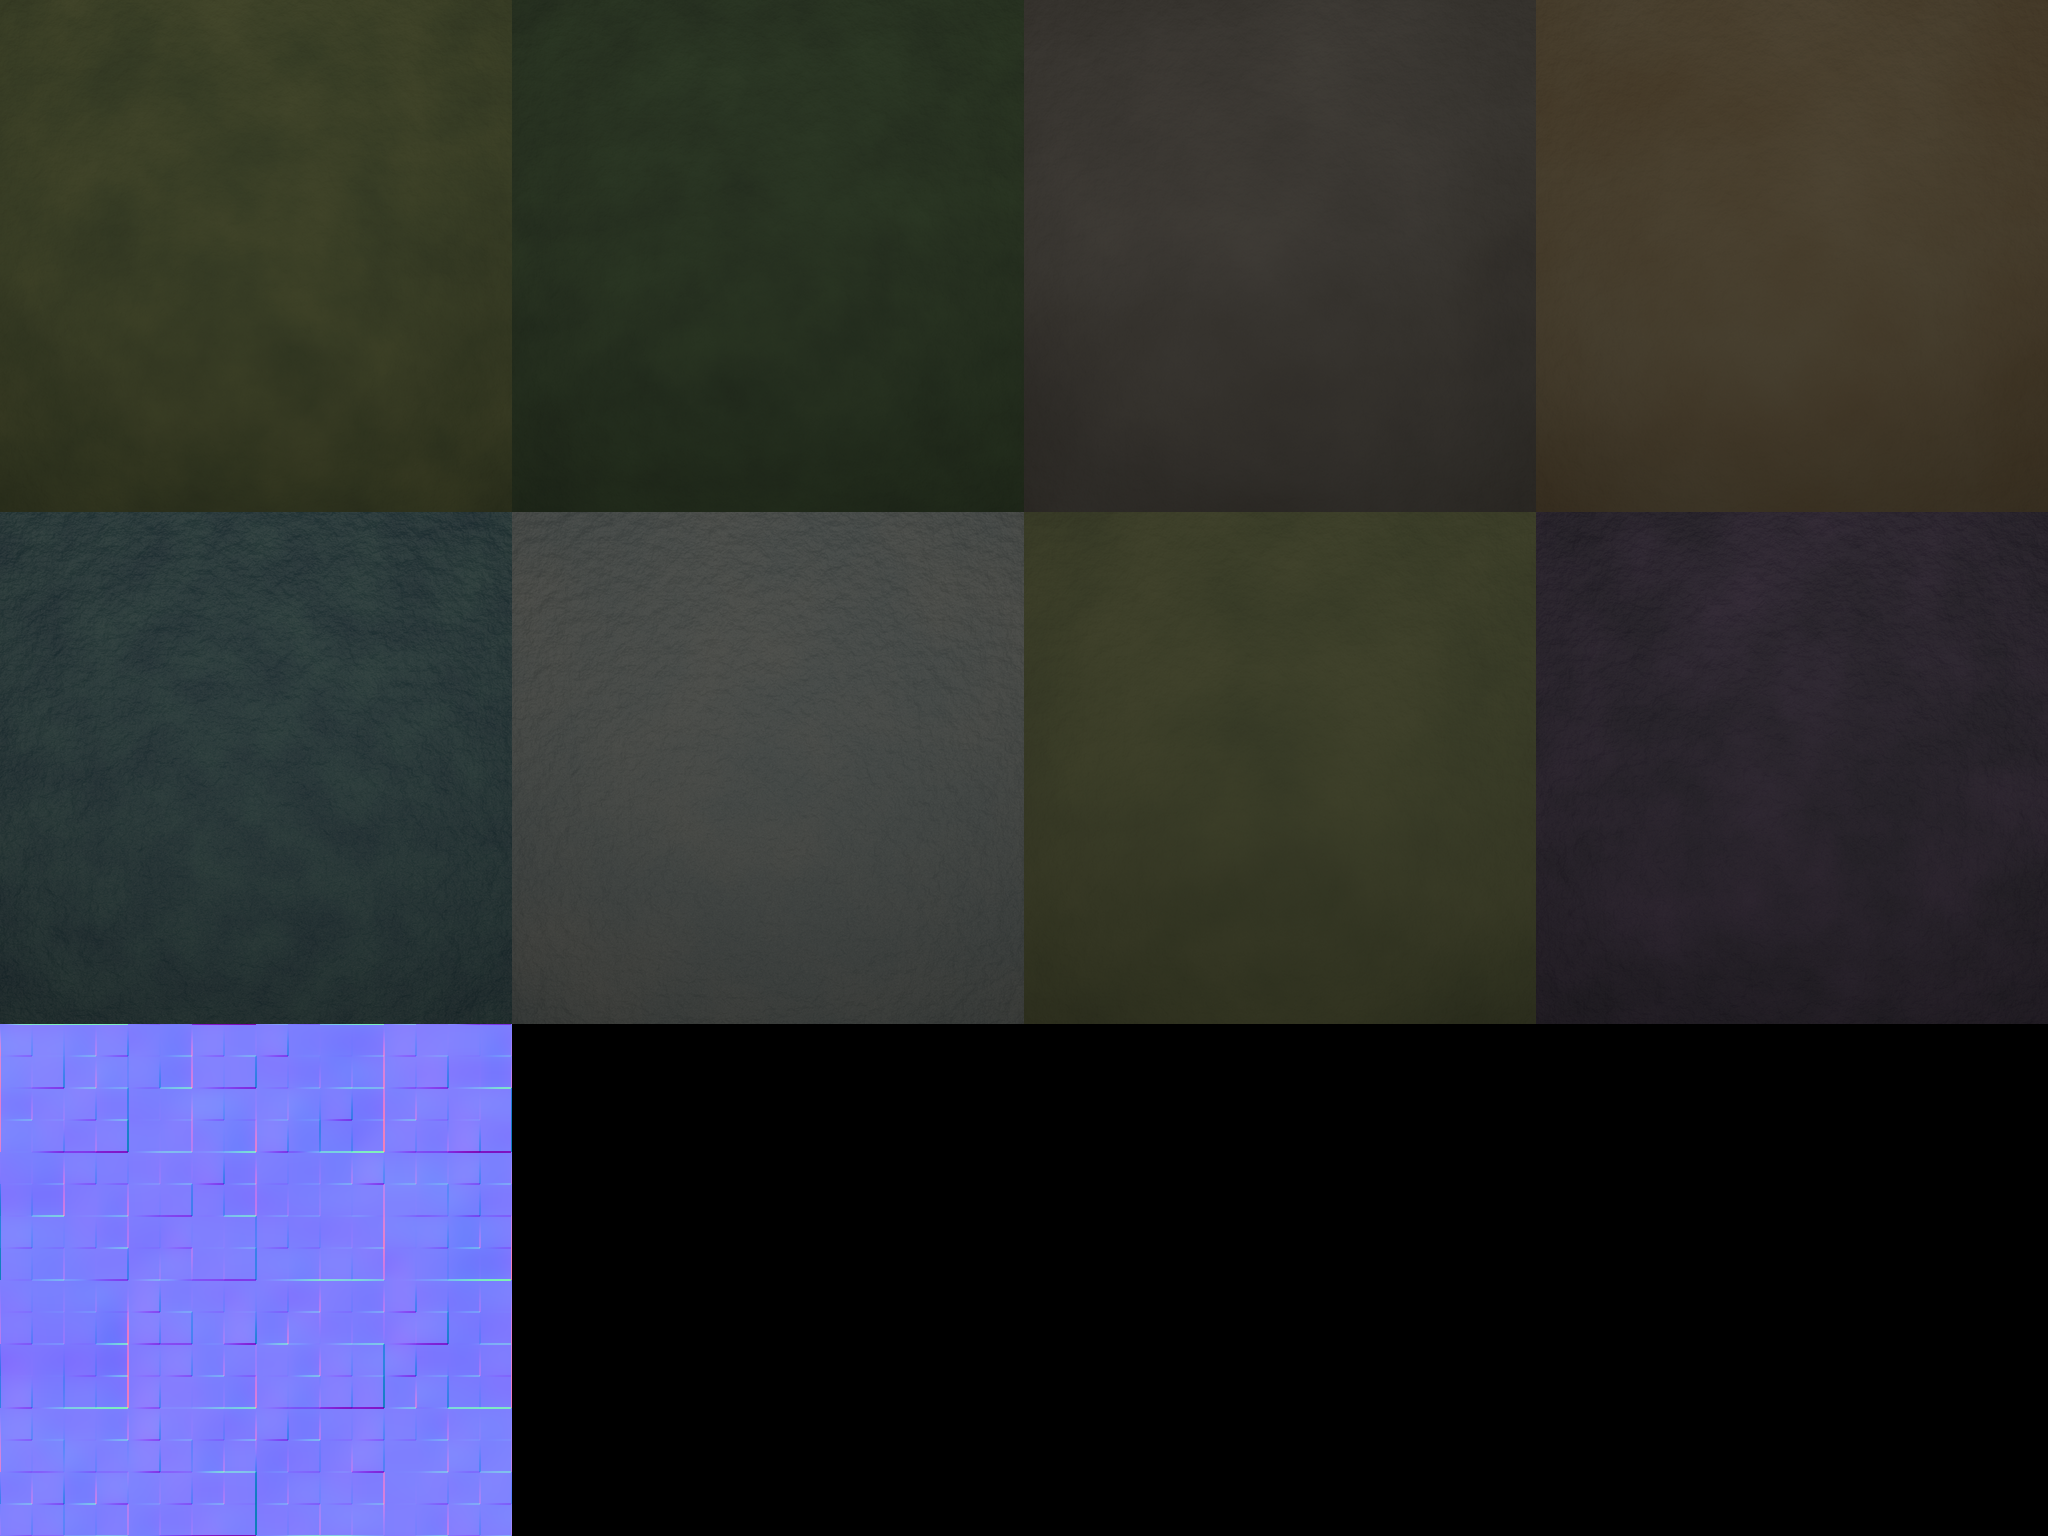
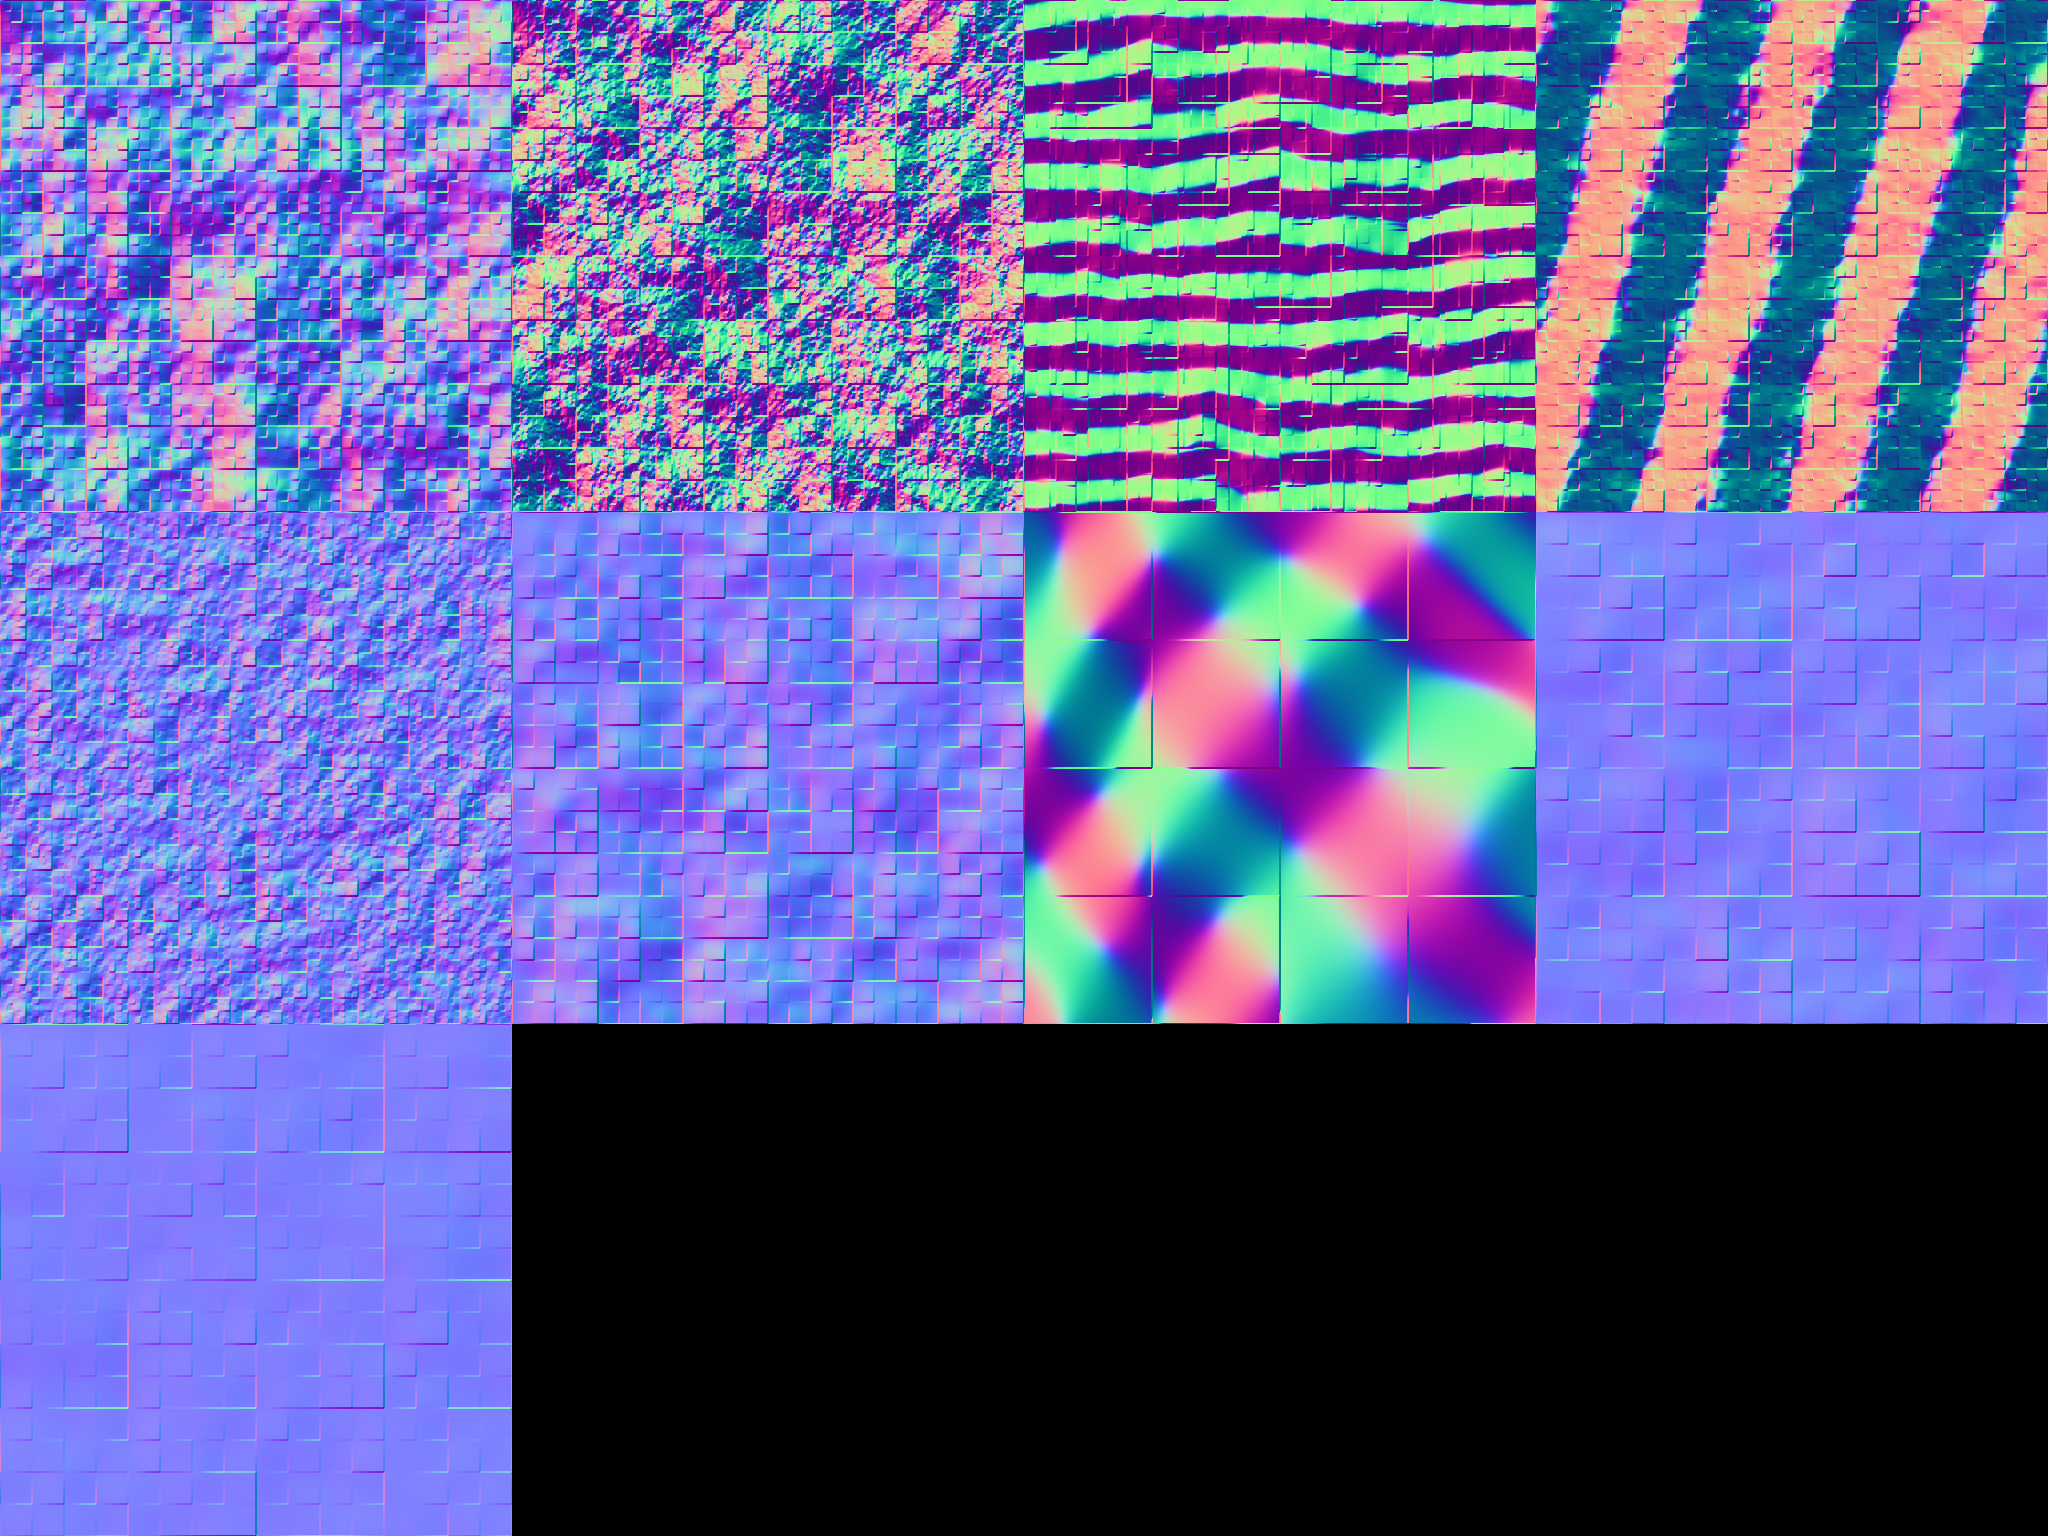
fix(blender-bake): unlit albedo, real normals preserved, biome closeup goldens, asset budget gate
Audit of the Blender pass found the bake pipeline was real (portable
Blender 5.1.2, deterministic node graphs) but produced a muddy, slate
world. Three systemic causes, all fixed:

1. AgX view transform (Blender 5 default) darkened/desaturated every
   render. Worse, the albedo went through a Principled BSDF lit by a
   weak area lamp, so the glossy ocean baked as gray SPECULAR, not
   teal. Albedo now leaves the scene UNLIT: view_transform=Standard +
   an Emission output carrying the ramp color with a gentle multiply
   of the detail ramp for the painted self-shading. Ocean cell went
   from RGB(67,70,68) gray to (123,175,189) teal; desert/plains/ice
   similarly recovered their intended palette.
2. _composite pasted the COLOR render into the NORMAL atlas — color
   bytes as normal maps broke the lighting response on every baked
   cell. Restored the numpy height-derived normal atlas and stopped
   overwriting it.
3. The 05/06 'macro' cameras meant to verify biome textures captured
   fog cover + FogExp2 haze — texture changes were invisible at that
   distance. Replaced with closeups at absolute world coords (from the
   new __repocivDebug.getTileStats().samplePos) with ?reveal=all, a new
   capture flag that lifts fog of war. The ocean golden now actually
   shows water.

Also: scripts/check.sh gains the 'asset budget' step the bake script's
docstring claimed existed (3 atlas PNGs ≤6MB; currently 5.3MB), the
[…]

diff --git a/src/main.ts b/src/main.ts
@@ -115,6 +115,12 @@ type RepoCivDebugApi = {
   openLocalView: (cityId: string) => boolean;
   isTerrainAtlasReady: () => boolean;
   getWebGLMetrics: () => { frameTimeAvg: number; frameCount: number; dirtyRatePct: number } | null;
+  getTileStats: () => {
+    total: number;
+    revealed: number;
+    byTerrain: Record<string, number>;
+    samplePos: Record<string, { x: number; y: number }>;
+  };
   queueLocalMission: (filePath: string, fileName: string, unitId?: string) => boolean;
   getLocalUnits: () => Array<{
     id: string;
@@ -230,6 +236,15 @@ async function bootstrap() {
   await openOnboardingPanel();
 
   const world = await generateWorld();
+  // `?reveal=all` lifts fog of war for capture/audit sessions: the golden
+  // macro cameras (05/06) need every biome visible — without it, low-zoom
+  // shots are mostly fog cover and texture changes go unverified.
+  if (new URLSearchParams(window.location.search).get('reveal') === 'all') {
+    for (const tile of world.tiles.values()) {
+      tile.revealed = true;
+      tile.inFog = false;
+    }
+  }
   const state = new GameState(world);
   state.start();
 
@@ -371,6 +386,20 @@ async function bootstrap() {
     },
     isTerrainAtlasReady: () => renderer.isTerrainAtlasReady(),
     getWebGLMetrics: () => renderer.getWebGLMetrics(),
+    getTileStats: () => {
+      const byTerrain: Record<string, number> = {};
+      const samplePos: Record<string, { x: number; y: number }> = {};
+      let revealed = 0;
+      for (const t of state.world.tiles.values()) {
+        byTerrain[t.terrain] = (byTerrain[t.terrain] ?? 0) + 1;
+        if (t.revealed) revealed++;
+        if (!samplePos[t.terrain]) {
+          const p = axialToPixel(t.coord, HEX_SIZE);
+          samplePos[t.terrain] = { x: Math.round(p.x), y: Math.round(p.y) };
+        }
+      }
+      return { total: state.world.tiles.size, revealed, byTerrain, samplePos };
+    },
     openLocalView: (cityId: string) => {
       const city = state.world.cities.find((item) => item.id === cityId && !item.isCapital);
       if (!city) return false;

diff --git a/scripts/blender/bake_atlas.py b/scripts/blender/bake_atlas.py
@@ -21,11 +21,17 @@ Groups (one commit per group; render order matches the manifest index):
     c = ocean                                 (radial teal -> deep coastal gradient)
     d = mountain, sacred                      (rock strata w/ strong normal, snow transition)
 
-This script is *invoked* by Blender (it's a Blender script). The driver
-that calls Blender in batch-by-group is scripts/blender/run_bake.sh.
-The driver invokes this once per group with --group <letter>; we bake
-only that group's cells and re-compose the atlas. Other cells are
-preserved from the existing atlas (we do NOT degrade them).
+This file is BOTH the driver and the Blender payload: run it directly
+with python3 (it generates a bpy sub-script under /tmp and invokes the
+Blender binary on it). One invocation per group bakes only that group's
+cells and re-composes the atlas; other cells are preserved (we do NOT
+degrade them). Regenerate everything with:
+
+    for g in a b c d; do
+      python3 scripts/blender/bake_atlas.py --group $g \
+        --resolution 1024 --out-resolution 512 \
+        --blender-bin ~/tools/blender/blender-5.1.2-linux-x64/blender
+    done
 
 Determinism contract:
     - Texture Coordinate -> Mapping node with offset derived from seed.
@@ -40,9 +46,8 @@ Determinism contract:
 Constraints honored:
     - TERRAIN_ATLAS_INDEX in src/three/terrainShader.ts and the
       manifest order are NOT changed. We only swap pixel content.
-    - Budget: each baked cell at OUT_RES is OUT_RES^2 * 3 bytes (RGB).
-      The 3 atlas PNGs combined stay under 6MB (verified in
-      scripts/check.sh asset budget).
+    - Budget: the 3 atlas PNGs combined stay under 6MB — enforced by the
+      "asset budget" step in scripts/check.sh.
     - The numpy generator stays untouched as a fallback.
 """
 from __future__ import annotations
@@ -178,6 +183,17 @@ try:
 except Exception:
     pass
 
+# ── Color management ────────────────────────────────────────────────────
+# Blender 4+/5 defaults to the AgX view transform, which darkens and
+# desaturates everything — baked this way, the bright sand ramp reads as
+# mud and the teal ocean as slate in-world. Albedo output must be
+# 'Standard' (no filmic tone curve): the game's own renderer does the
+# lighting; the atlas should carry flat, saturated color.
+scene.view_settings.view_transform = 'Standard'
+scene.view_settings.look = 'None'
+scene.view_settings.exposure = 0.0
+scene.view_settings.gamma = 1.0
+
 # ── Camera (ortho, top-down) ────────────────────────────────────────────
 bpy.ops.object.camera_add(location=(0, 0, 4))
 cam = bpy.context.object
@@ -241,7 +257,18 @@ def build_material(name, seed):
     nt.links.new(bump.inputs['Height'], cr2.outputs['Color'])
     nt.links.new(bsdf.inputs['Normal'], bump.outputs['Normal'])
     bsdf.inputs['Roughness'].default_value = 0.7
-    nt.links.new(out.inputs['Surface'], bsdf.outputs['BSDF'])
+    # Albedo must leave the scene UNLIT: through a Principled BSDF the
+    # output depends on lamp energy and picks up gray specular (the teal
+    # ocean rendered as slate). Emit the ramp color directly, with a
+    # gentle multiply of the detail ramp for the painted self-shading.
+    shade = nt.nodes.new('ShaderNodeMixRGB')
+    shade.blend_type = 'MULTIPLY'
+    shade.inputs['Fac'].default_value = 0.18
+    emit = nt.nodes.new('ShaderNodeEmission')
+    nt.links.new(shade.inputs['Color1'], mix.outputs['Color'])
+    nt.links.new(shade.inputs['Color2'], cr2.outputs['Color'])
+    nt.links.new(emit.inputs['Color'], shade.outputs['Color'])
+    nt.links.new(out.inputs['Surface'], emit.outputs['Emission'])
     mix.inputs['Fac'].default_value = 0.30
     bump.inputs['Strength'].default_value = 0.35
     bump.inputs['Distance'].default_value = 0.05
@@ -432,7 +459,9 @@ def _composite(group_letter: str, terrains: list[str],
         print(f"[DAVI] wrote {path} ({(path.stat().st_size)/1024:.1f} KB)")
 
     _update_atlas(ATLAS_PNG)
-    _update_atlas(NORMAL_PNG)
+    # Do NOT paste the color render into the normal atlas: a color image
+    # used as a normal map breaks the in-world lighting response. The
+    # numpy generator's height-derived normals stay as-is.
 
     # Roughness atlas: the bake output for each cell encodes the per-biome
     # roughness in the R channel (we use the same render; roughness 0..1).